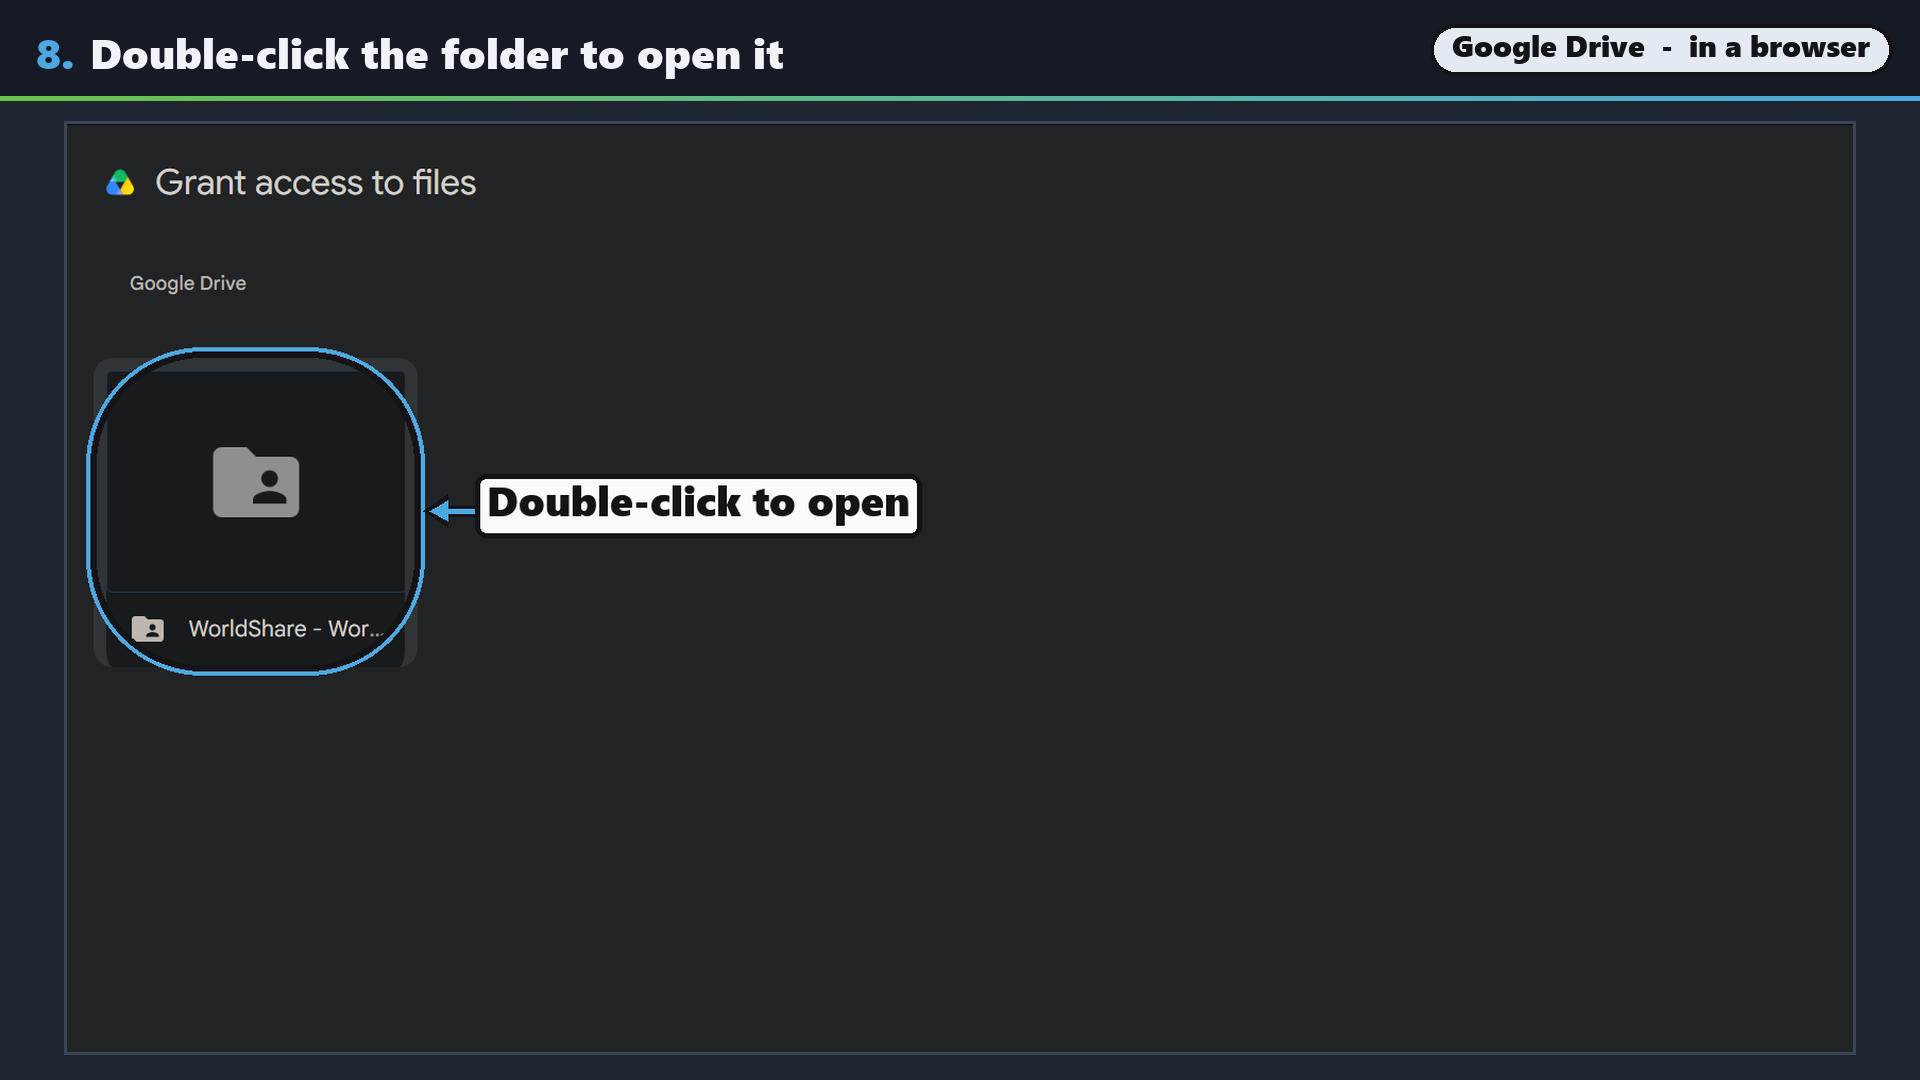
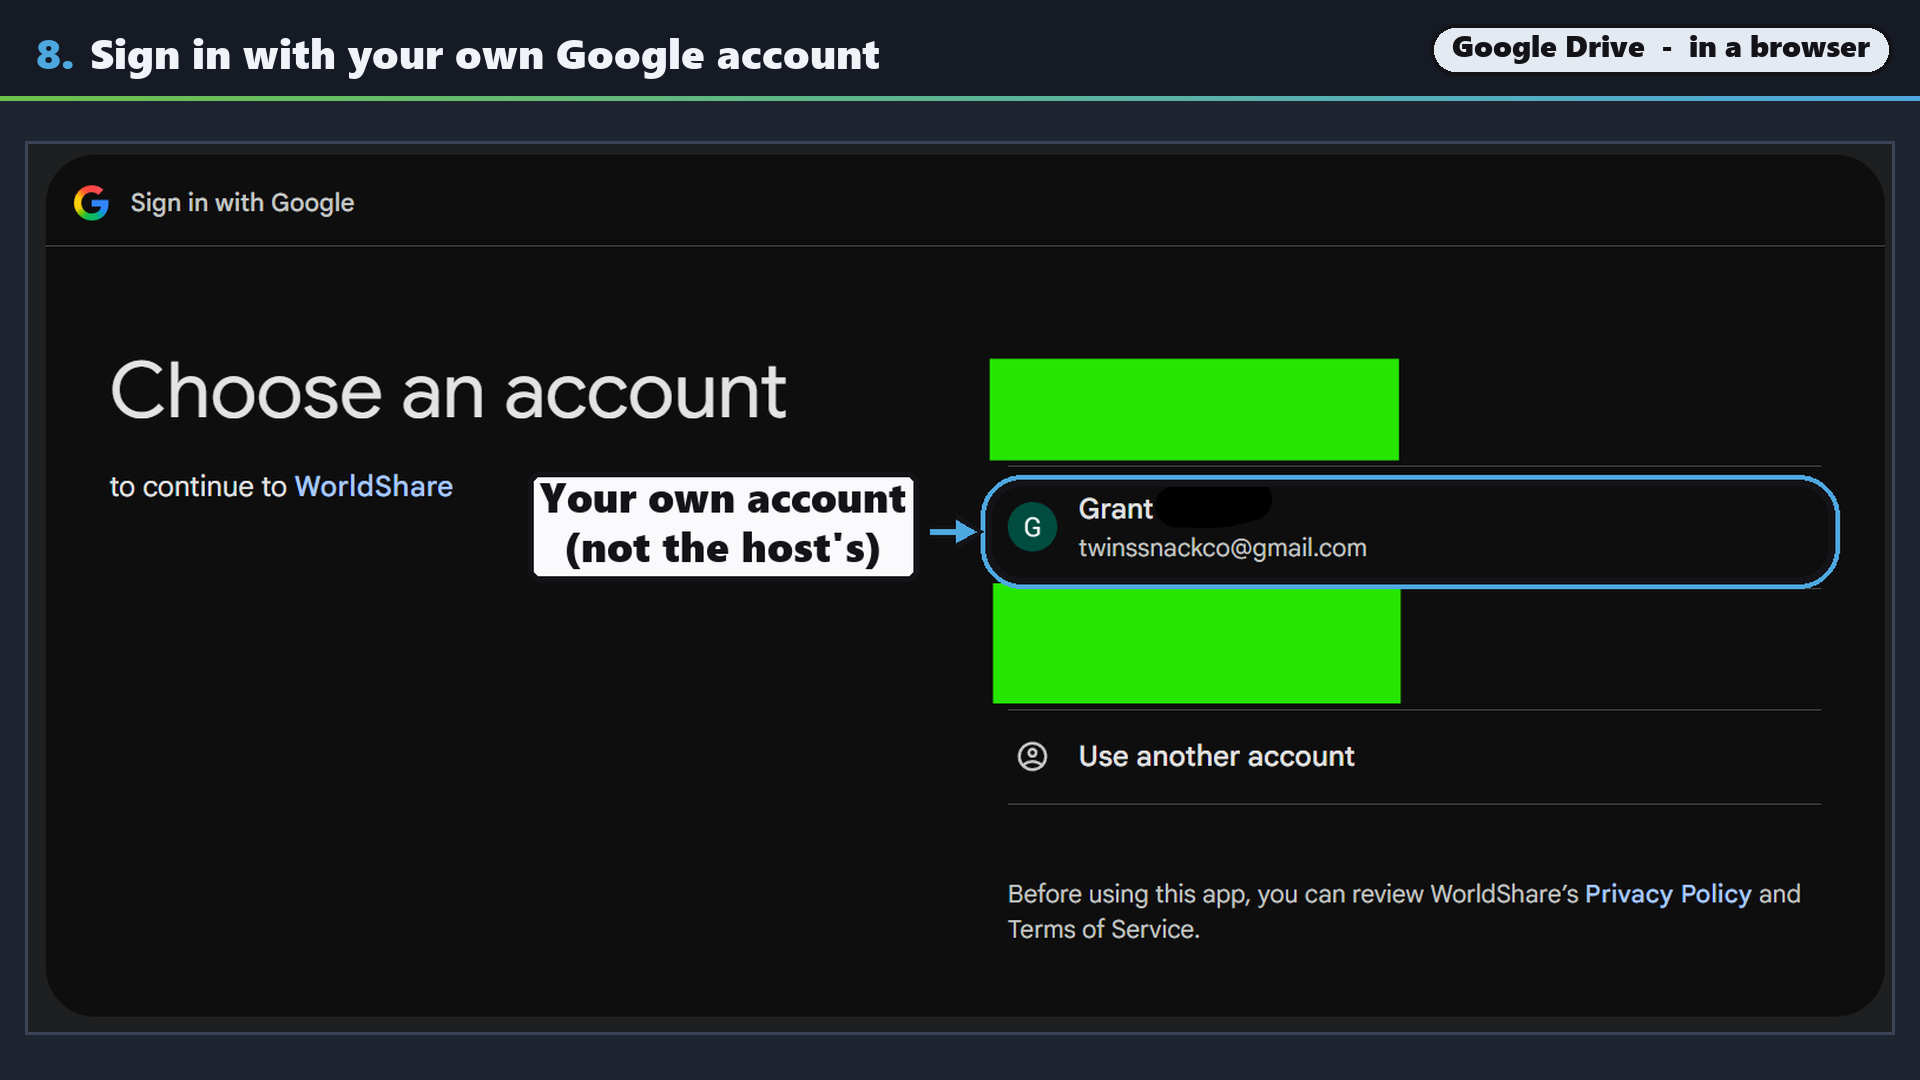
Restructure the joiner's deck, and stop trusting stale bytecode
The guest deck now starts where a joiner actually starts. It opened on the
Contributor Worlds screen, which is a screen they have never seen and cannot
have reached, so their own title screen goes in front of it. The no-email form
of /worldshare invite gets its own two slides - the command, then the result -
instead of one slide whose file name claimed to be the command and was in fact
the output. And the last slide is the other half of the e4mc split: LIVE beside
Locked, both meaning "they are playing right now", with e4mc deciding which one
you get.

Slide numbers are no longer written into the spec. They were literals while the
filename came from list position, so inserting a slide silently desynced the
badge from the file. The header takes its number from position now.

Three placement fixes, all the same underlying bug: a card with nowhere to go.
place_label rejected a side outright when the card fell off the canvas, so a
wide card centred over a button near an edge failed every side and hit the
clamp - which puts the card below the target, on top of the thing it labels.
Sides now slide along the axis they are not pointing from. Marks can also drop
their ring and arrow to become a plain note, widen their gap, or set their own
label size.

One screenshot was itself taken cropped through "Contributor Worlds", leaving
half a line of yellow letters at the top of the row band, which could not back
[…]

Changed region(s): [[0.0, 0.0306, 1.0, 0.9778]]

diff --git a/docs/guide/spec.py b/docs/guide/spec.py
@@ -23,19 +23,20 @@ that happen *during* joining, and shown apart from it they are trivia.
 # ------------------------------------------------------- host: set a world up
 
 HOST = [
-    dict(n=1, file="WorldShareOnTitleScreen.png", account="A",
+    dict(file="WorldShareOnTitleScreen.png", account="A",
          title="WorldShare adds a button to the title screen",
-         marks=[dict(at="button:2", label="Everything starts here", side="left")]),
+         marks=[dict(at="button:2", label="Start" + chr(10) + "here",
+                     side="left", gap=14, label_size=30)]),
 
-    dict(n=2, file="WorldShareInSinglePlayer.png", account="A",
+    dict(file="WorldShareInSinglePlayer.png", account="A",
          title="Open the world you want to share",
          marks=[dict(at="button:0", label="Pick your world, then Play",
                      side="above")]),
 
-    dict(n=3, file="RunningWorldshareSetup.png", crop=(0.0, 0.84, 0.80, 0.16), account="A",
+    dict(file="RunningWorldshareSetup.png", crop=(0.0, 0.84, 0.80, 0.16), account="A",
          title="Run /worldshare setup", marks=[]),
 
-    dict(n=4, file="RanWorldShareSetup.png", crop="chat", account="A",
+    dict(file="RanWorldShareSetup.png", crop="chat", account="A",
          title="Click the link to sign in to Google", label_size=60,
          # Fractions of the CROPPED chat panel, not the whole window.
          marks=[dict(at=(0.008, 0.637, 0.395, 0.115), label="Click this",
@@ -43,52 +44,52 @@ HOST = [
 
     # Still in Minecraft, not the browser - this is the game's own "open a
     # link?" guard, so it carries the player's badge, not Drive's.
-    dict(n=5, file="WorldShare1stAuthorizationForSetup.png", account="A",
+    dict(file="WorldShare1stAuthorizationForSetup.png", account="A",
          title="Minecraft asks before opening the link",
          marks=[dict(at="button:0", label="Click Yes", side="below")]),
 
-    dict(n=6, file="Worldshare2ndAuthorizationForSetup.png", account="drive",
+    dict(file="Worldshare2ndAuthorizationForSetup.png", account="drive",
          title="Choose your Google account",
          marks=[dict(at=(0.522, 0.528, 0.440, 0.108),
                      label="Pick your account\n(this one's mine)", side="left")]),
 
-    dict(n=7, file="Worldshare3rdAuthorizationForSetup.png", account="drive",
+    dict(file="Worldshare3rdAuthorizationForSetup.png", account="drive",
          title="Approve it",
          # The card overruns "share data safely" - which is a link in a
          # screenshot, so nobody was going to click it anyway.
          marks=[dict(at=(0.750, 0.864, 0.215, 0.070), label="Click here",
                      side="above")]),
 
-    dict(n=8, file="WorldShareSetupAuthorized.png", account="drive",
+    dict(file="WorldShareSetupAuthorized.png", account="drive",
          title="Done - go back to Minecraft", marks=[]),
 
-    dict(n=9, file="WorldShareSetupProgressBarInGame.png", crop=(0.12, 0.43, 0.76, 0.32), account="A",
+    dict(file="WorldShareSetupProgressBarInGame.png", crop=(0.12, 0.43, 0.76, 0.32), account="A",
          title="WorldShare builds the world's files - about half a minute",
          marks=[]),
 
-    dict(n=10, file="WorldshareSetupSuccessfulChatMessage.png", account="A",
+    dict(file="WorldshareSetupSuccessfulChatMessage.png", account="A",
          title="Setup is finished", marks=[]),
 
-    dict(n=11, file="DriveBeforeRunningWorldshareSetup.png", crop=(0.0, 0.0, 0.56, 0.52), account="drive",
+    dict(file="DriveBeforeRunningWorldshareSetup.png", crop=(0.0, 0.0, 0.56, 0.52), account="drive",
          title="Your Drive before", marks=[]),
 
-    dict(n=12, file="DriveAfterRunningWorldshareSetup.png", crop=(0.0, 0.0, 0.56, 0.52), account="drive",
+    dict(file="DriveAfterRunningWorldshareSetup.png", crop=(0.0, 0.0, 0.56, 0.52), account="drive",
          title="And after - WorldShare made its own folder", marks=[]),
 
-    dict(n=13, file="WorldShareSaveAndUploadMenu.png", account="A",
+    dict(file="WorldShareSaveAndUploadMenu.png", account="A",
          title="Quitting uploads the world",
          marks=[dict(at="button:8", label="This replaces Save and Quit", side="below")]),
 
-    dict(n=14, file="UploadProgressBar.png", account="A",
+    dict(file="UploadProgressBar.png", account="A",
          title="Your world uploads to Drive", marks=[]),
 
-    dict(n=15, file="ContributorWorldsAfterSetup.png", account="A",
+    dict(file="ContributorWorldsAfterSetup.png", account="A",
          title="The world is ready to share", marks=[]),
 
-    dict(n=16, file="RunningWorldshareHost.png", crop=(0.0, 0.84, 0.80, 0.16), account="A",
+    dict(file="RunningWorldshareHost.png", crop=(0.0, 0.84, 0.80, 0.16), account="A",
          title="Optional: /worldshare host opens it for live co-op", marks=[]),
 
-    dict(n=17, file="WorldShareRanWorldshareHost.png", crop="chat", account="A",
+    dict(file="WorldShareRanWorldshareHost.png", crop="chat", account="A",
          title="Your friend can now join you directly", marks=[]),
 ]
 
@@ -96,22 +97,37 @@ HOST = [
 
 GUEST = [
     # The host's screen first - this is where the link the guest needs comes from.
-    dict(n=1, file="RunningWorldshareInvite.png", crop=(0.0, 0.84, 0.80, 0.16), account="A",
+    dict(file="RunningWorldshareInvite.png", crop=(0.0, 0.84, 0.80, 0.16), account="A",
          title="The host runs /worldshare invite with your email", marks=[]),
 
-    dict(n=2, file="RanWorldshareInvite.png", crop="chat", account="A",
+    dict(file="RanWorldshareInvite.png", crop="chat", account="A",
          title="Google shares the folder, and prints the link to send you",
          marks=[]),
 
-    dict(n=3, file="RunningWorldshareInviteWithNoEmail.png", crop=(0.0, 0.35, 0.93, 0.53), account="A",
-         title="Or /worldshare invite alone, just for the link", marks=[]),
+    dict(file="TypingWorldshareInviteNoEmail.png", crop=(0.0, 0.90, 0.45, 0.10),
+         account="A",
+         title="Or run /worldshare invite with no email", marks=[]),
 
-    # Handover.
-    dict(n=4, file="ContributorWorldsWithNoWorlds.png", account="B",
-         title="On your machine: Contributor Worlds, then Add World",
+    # Badly named on disk: this file is the *result* of the no-email form, not
+    # the command being typed.
+    dict(file="RunningWorldshareInviteWithNoEmail.png", crop=(0.0, 0.35, 0.93, 0.53),
+         account="A",
+         title="It just prints the link, for you to send yourself", marks=[]),
+
+    # Handover. The joiner starts where they actually start - their own title
+    # screen - rather than already inside a screen they have never opened.
+    dict(file="WorldShareOnTitleScreen.png", account="B",
+         title="On your machine: open Contributor Worlds",
+         # The title screen has no empty space beside a full-width button, so
+         # the card is stacked and tucked into the dark left margin.
+         marks=[dict(at="button:2", label="Start" + chr(10) + "here",
+                     side="left", gap=14, label_size=30)]),
+
+    dict(file="ContributorWorldsWithNoWorlds.png", account="B",
+         title="No worlds yet - click Add World",
          marks=[dict(at="button:0", label="Click this", side="right")]),
 
-    dict(n=5, file="PutInLinkForSharedWorld.png", account="B",
+    dict(file="PutInLinkForSharedWorld.png", account="B",
          title="Paste the link, then sign in",
          marks=[
              # The URL box is not one of Minecraft's grey widgets, so
@@ -125,18 +141,23 @@ GUEST = [
              dict(at="button:0"),
          ]),
 
-    dict(n=6, file="WorldShareAuthStep1ForJoiningWorld.png", account="drive",
-         title="Sign in with your own Google account", marks=[]),
+    dict(file="WorldShareAuthStep1ForJoiningWorld.png", account="drive",
+         title="Sign in with your own Google account",
+         marks=[dict(at=(0.516, 0.382, 0.452, 0.110),
+                     label="Your own account" + chr(10) + "(not the host's)",
+                     side="left")]),
 
-    dict(n=7, file="WorldshareAuthStep2ForJoiningWorld.png", account="drive",
-         title="Approve access", marks=[]),
+    dict(file="WorldshareAuthStep2ForJoiningWorld.png", account="drive",
+         title="Approve access",
+         marks=[dict(at=(0.878, 0.864, 0.110, 0.082), label="Click here",
+                     side="left")]),
 
-    dict(n=8, file="WorldshareAuthStep3ForJoiningWorld.png", account="drive",
+    dict(file="WorldshareAuthStep3ForJoiningWorld.png", account="drive",
          title="Double-click the folder to open it",
          marks=[dict(at=(0.016, 0.250, 0.180, 0.335),
                      label="Double-click to open", side="right")]),
 
-    dict(n=9, file="WorldshareAuthStep4ForJoiningWorld.png", account="drive",
+    dict(file="WorldshareAuthStep4ForJoiningWorld.png", account="drive",
          title="Select every file, then Insert",
          # Both cards point up into the empty half of the picker. Sending the
          # Insert one left jammed it into the bottom-right corner, where it
@@ -154,27 +175,37 @@ GUEST = [
          ]),
 
     # Two rows, one slide: what you see depends on whether e4mc is installed.
-    dict(n=10, file="WorldshareDownloadAfterSubscribingToWorld.png", account="B", crop="row",
+    dict(file="WorldshareDownloadAfterSubscribingToWorld.png", account="B", crop="row",
          title="The world appears - what you can do depends on e4mc",
          pair="WorldshareLiveExample.png",
-         caption_a="Without e4mc, or nobody hosting: download it and play later",
-         caption_b="With e4mc, while they host: join them right now",
+         # The row itself says "Player3 is playing right now", so the caption
+         # cannot claim nobody is playing - the distinction is playing versus
+         # hosting, and e4mc is what turns one into the other.
+         caption_a="No e4mc, so download it now, and play once they are done",
+         caption_b="With e4mc running, you can join their game right now",
          # No labels on these two: the buttons already read Download and Join,
          # and a card repeating the word only covers the row's subtitle. The
          # ring draws the eye, the caption underneath says what it means.
          marks=[dict(at="row-action")],
          pair_marks=[dict(at="row-action")]),
 
-    dict(n=11, file="WorldshareDownloadingProgressBar.png", crop="chat", account="B",
+    dict(file="WorldshareDownloadingProgressBar.png", crop="chat", account="B",
          title="Downloading - once only, then it stays", marks=[]),
 
-    dict(n=12, file="WorldshareWorldOpenExample.png", account="B", crop="row",
+    dict(file="WorldshareWorldOpenExample.png", account="B", crop="row",
          title="Open it and play",
          marks=[dict(at="row-action", label="Click Open", side="left")]),
 
-    dict(n=13, file="WorldshareLockedExample.png", account="B", crop="row",
-         title="If they are playing, the world is locked until they finish",
-         marks=[]),
+    # The other half of the e4mc split, and the one that bites: both rows below
+    # mean "the host is playing right now". Which of them you get is decided by
+    # whether e4mc is installed, so they belong on one slide rather than two.
+    dict(file="WorldshareLiveExample.png", account="B", crop="row",
+         title="While they are playing, e4mc decides what you can do",
+         pair="WorldshareLockedExample.png",
+         caption_a="They're hosting with e4mc, so you can jump straight in",
+         caption_b="No e4mc, so the world is theirs until they log off",
+         marks=[],
+         pair_marks=[]),
 ]
 
 SPEC = HOST + GUEST

diff --git a/docs/guide/video.py b/docs/guide/video.py
@@ -4,7 +4,7 @@ Encode the slide decks into MP4s.
 Uses the ffmpeg that ships with imageio-ffmpeg, so there is nothing to install
 separately and nothing to find on PATH.
 
-Six seconds a slide by default, with a cross-fade between them. The fade is not
+Five and a half seconds a slide by default, with a cross-fade between them. The fade is not
 decoration: cutting hard between two Minecraft screenshots that differ by one
 chat line reads as a glitch rather than a step, and a short dissolve makes the
 change legible.
@@ -24,14 +24,14 @@ SLIDES = os.path.join(HERE, "slides")
 OUT = os.path.join(HERE, "video")
 
 FFMPEG = imageio_ffmpeg.get_ffmpeg_exe()
-FADE = 0.6          # seconds of cross-fade
+FADE = 0.3          # seconds of cross-fade
 
 
 def deck_files(deck):
     return sorted(glob.glob(os.path.join(SLIDES, "%s-*.png" % deck)))
 
 
-def build(deck, seconds=6.0):
+def build(deck, seconds=5.5):
     files = deck_files(deck)
     if not files:
         print("no slides for", deck)
@@ -63,7 +63,7 @@ def build(deck, seconds=6.0):
              "-c:v", "libx264", "-preset", "medium", "-crf", "18",
              "-r", "30", dst]
 
-    print("encoding %s (%d slides, %.0fs each)..." % (deck, len(files), seconds))
+    print("encoding %s (%d slides, %.1fs each)..." % (deck, len(files), seconds))
     r = subprocess.run(args, capture_output=True, text=True)
     if r.returncode != 0:
         print(r.stderr[-1800:])
@@ -74,6 +74,6 @@ def build(deck, seconds=6.0):
 
 if __name__ == "__main__":
     which = sys.argv[1] if len(sys.argv) > 1 else None
-    secs = float(sys.argv[2]) if len(sys.argv) > 2 else 6.0
+    secs = float(sys.argv[2]) if len(sys.argv) > 2 else 5.5
     for deck in ([which] if which else ["host", "guest", "states"]):
         build(deck, secs)

diff --git a/docs/guide/slide.py b/docs/guide/slide.py
@@ -68,13 +68,15 @@ def _annotated(step, file_key, marks_key, shrink, accent):
     return Image.open(annotate.render(sub, shrink, accent=accent)).convert("RGB")
 
 
-def _header(d, step, accent, pill_col, label, f_title, f_badge):
+def _header(d, index, step, accent, pill_col, label, f_title, f_badge):
     d.rectangle([0, 0, W, HEADER_H], fill=(0x15, 0x1A, 0x24))
     for x in range(W):
         t = x / float(W - 1)
         d.line([(x, HEADER_H), (x, HEADER_H + 4)],
                fill=tuple(int(GREEN[i] + (BLUE[i] - GREEN[i]) * t) for i in range(3)))
-    num = "%d." % step["n"]
+    # Position in the deck, not a number written into the spec. Those drift the
+    # moment a slide is inserted, and the header and the filename then disagree.
+    num = "%d." % index
     d.text((MARGIN + 8, HEADER_H // 2 - 24), num, font=f_title, fill=accent)
     nw = d.textbbox((0, 0), num, font=f_title)[2]
     d.text((MARGIN + 24 + nw, HEADER_H // 2 - 24), step.get("title", ""),
@@ -95,7 +97,7 @@ def build(step, deck, index):
     d = ImageDraw.Draw(canvas)
     f_title, f_badge = font_at(42), font_at(30)
     f_cap = font_at(30)
-    _header(d, step, accent, pill_col, label, f_title, f_badge)
+    _header(d, index, step, accent, pill_col, label, f_title, f_badge)
 
     body_top = HEADER_H + MARGIN
     body_h = H - body_top - MARGIN

diff --git a/docs/guide/annotate.py b/docs/guide/annotate.py
@@ -156,11 +156,34 @@ def crop_to_chat(img, pad=0.04):
                      min(W, x + w + px), min(H, y + h + py)))
 
 
+def _drop_sliced_title(a, y0, y1):
+    """Advance past a screen title the screenshot itself cut in half.
+
+    One of the row shots was taken with the window already cropped through
+    "Contributor Worlds", so its top row of pixels is the bottom half of yellow
+    letters. The band starts at 0 there - it cannot back off any further - and
+    the slide showed a sliced line of text above the row. Only fires when the
+    band is hard against the top edge and the yellow really is there.
+    """
+    if y0 != 0:
+        return y0
+    r, g, b = a[:, :, 0], a[:, :, 1], a[:, :, 2]
+    titleish = (r > 170) & (g > 170) & (b < 120)
+    limit = y0 + int((y1 - y0) * 0.12)
+    y = y0
+    while y < limit and titleish[y].any():
+        y += 1
+    # Clear the letters' antialiased fringe as well, or a row of dim yellow is
+    # left behind that reads as dirt on the slide.
+    return y + 4 if y > y0 else y0
+
+
 def crop_to_row(img):
     band = find_row_band(img)
     if band is None:
         return img
     y0, y1 = band
+    y0 = _drop_sliced_title(np.asarray(img.convert("RGB")).astype(int), y0, y1)
     return img.crop((0, y0, img.width, y1))
 
 
